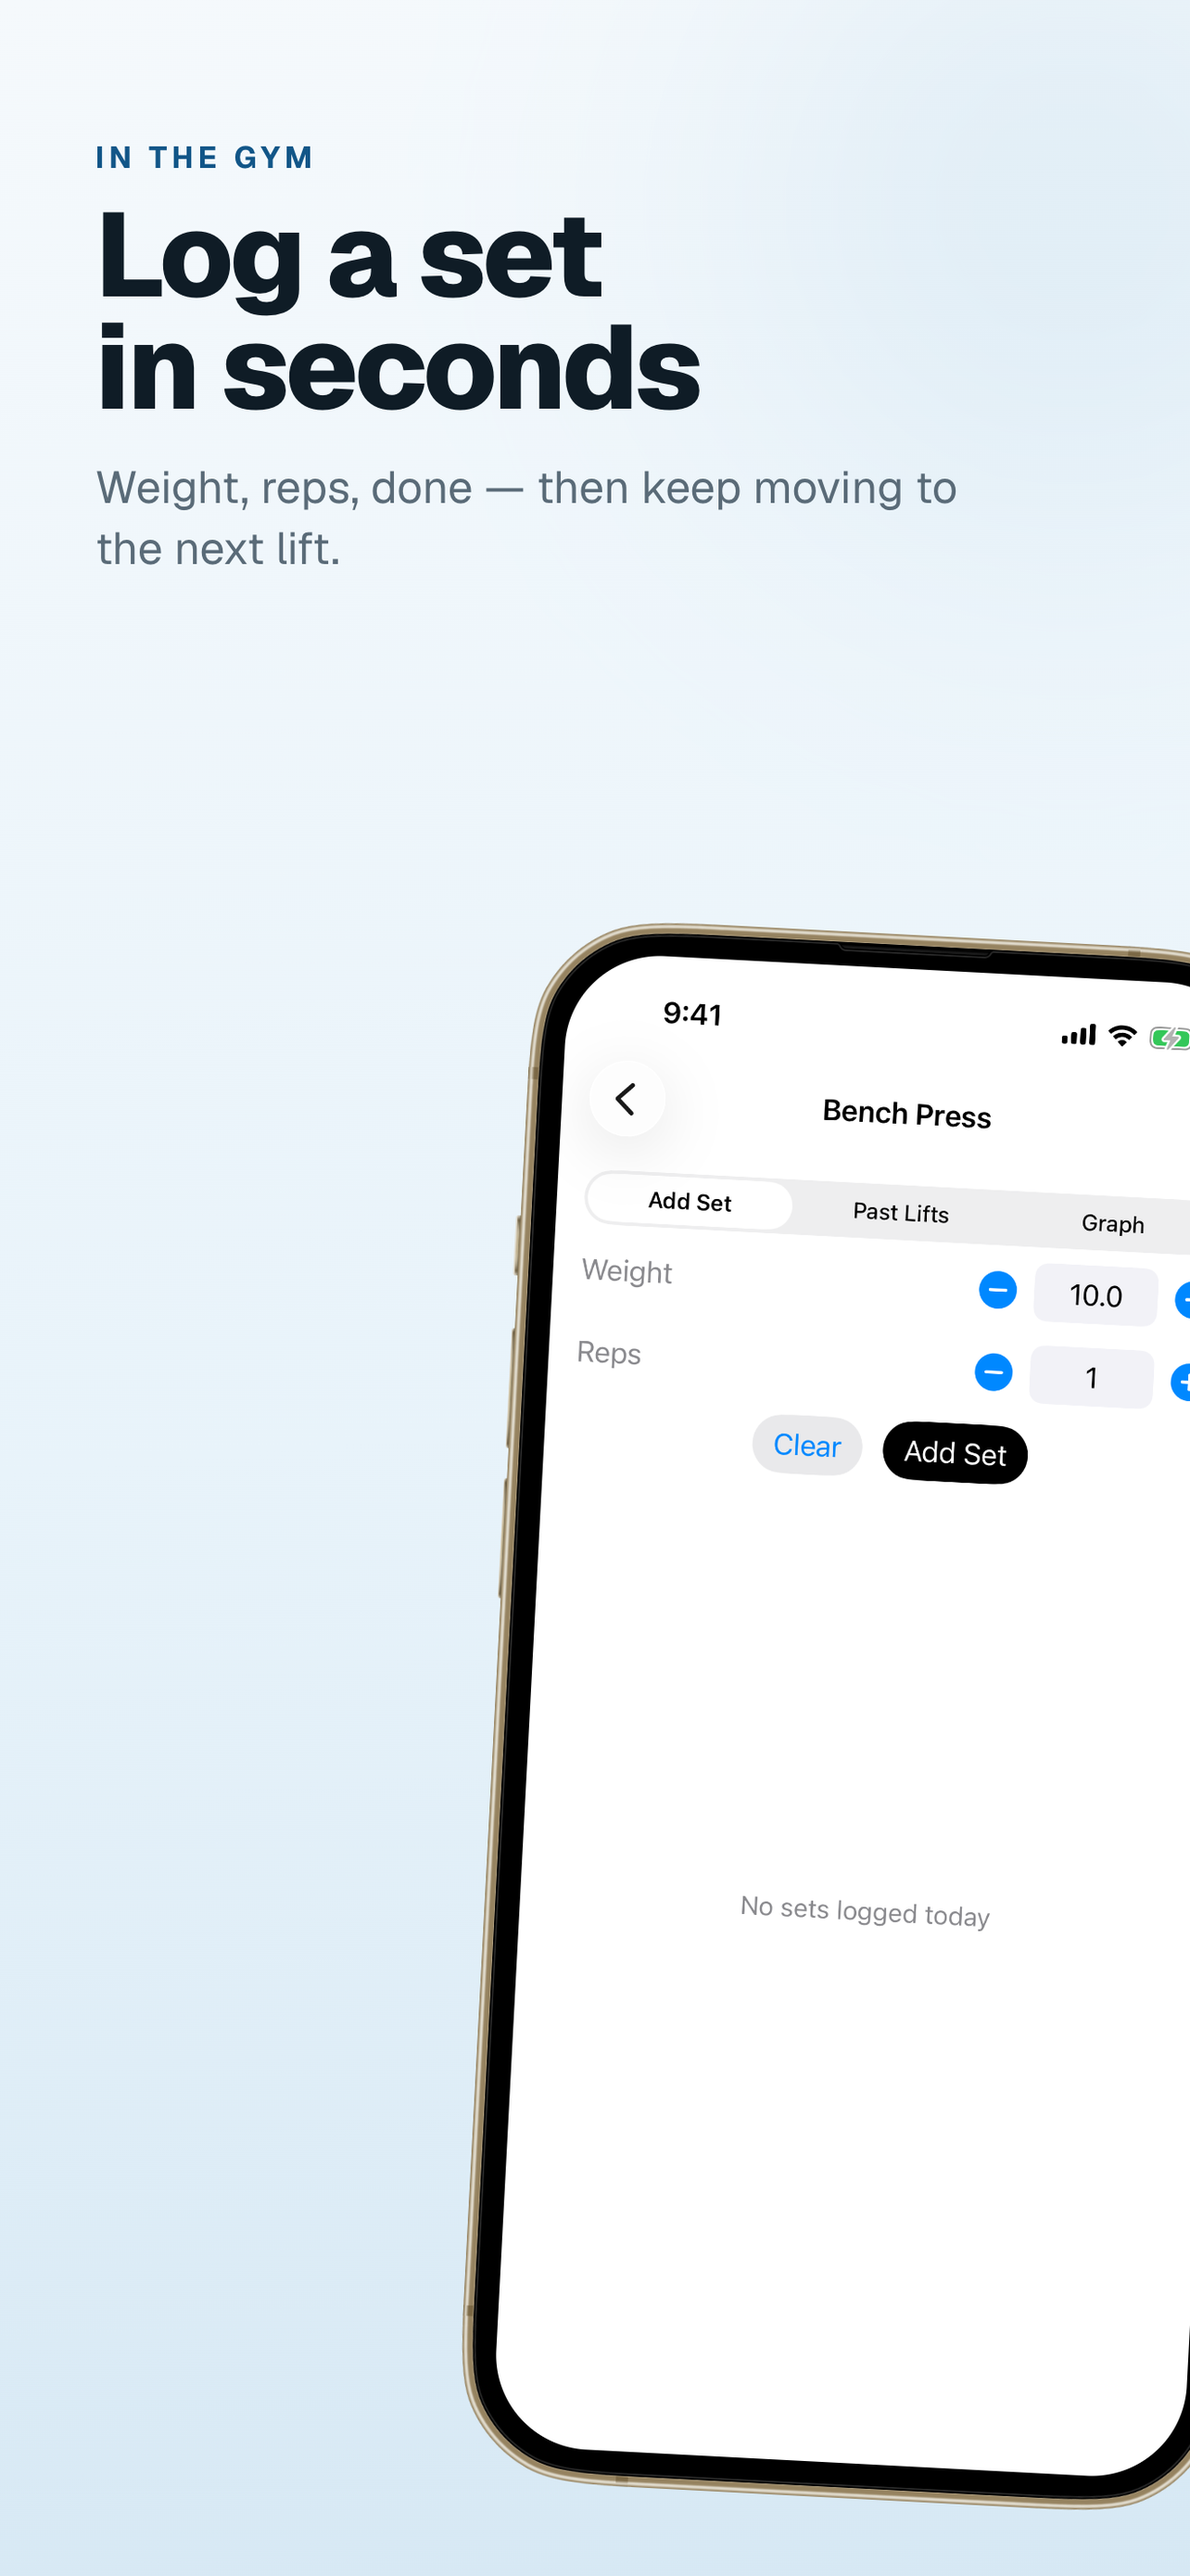
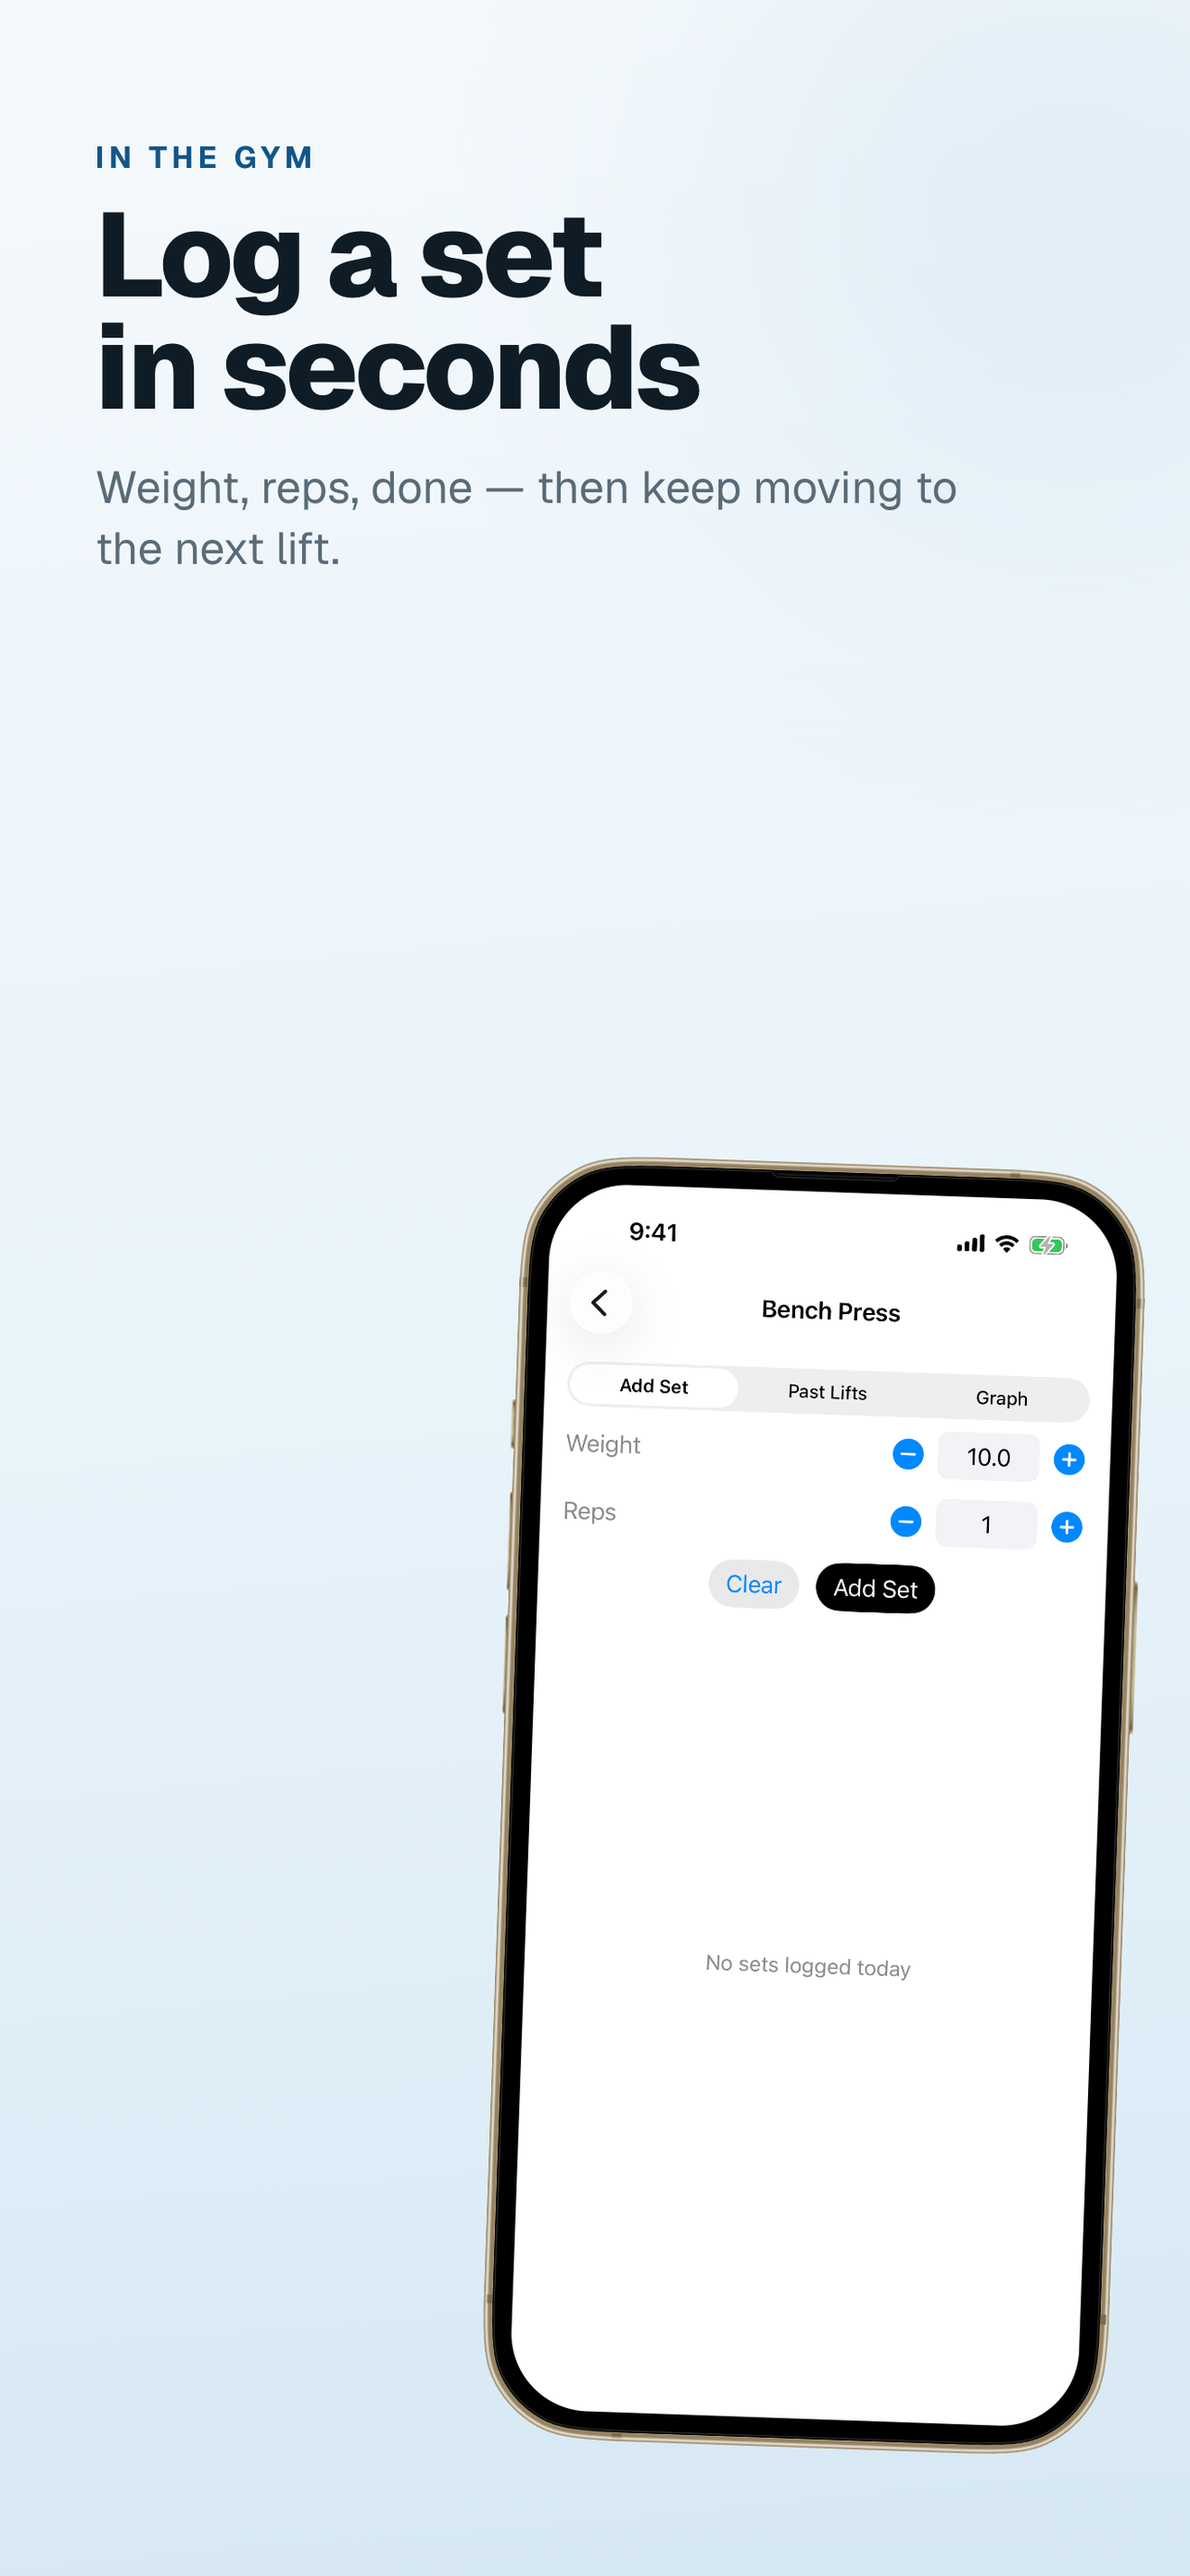
Fix screenshot clipping; keep universal creatives fully in frame

diff --git a/marketing/app-store-screenshots/src/app/page.tsx b/marketing/app-store-screenshots/src/app/page.tsx
@@ -230,9 +230,9 @@ const slides: SlideConfig[] = [
           style={{
             position: "absolute",
             left: "50%",
-            bottom: DESIGN_H * 0.02,
+            bottom: DESIGN_H * 0.04,
             transform: "translateX(-50%)",
-            width: PHONE_W,
+            width: PHONE_W * 0.88,
             zIndex: 3,
           }}
         >
@@ -261,11 +261,11 @@ const slides: SlideConfig[] = [
         <div
           style={{
             position: "absolute",
-            right: -DESIGN_W * 0.06,
-            bottom: DESIGN_H * 0.03,
-            width: PHONE_W * 0.95,
+            right: DESIGN_W * 0.05,
+            bottom: DESIGN_H * 0.05,
+            width: PHONE_W * 0.78,
             zIndex: 3,
-            transform: "rotate(3deg)",
+            transform: "rotate(2deg)",
           }}
         >
           <Phone mockupSrc={img("/mockup.png")} src={img("/screenshots/add-set.png")} alt="Add set" />
@@ -295,9 +295,9 @@ const slides: SlideConfig[] = [
           style={{
             position: "absolute",
             left: "50%",
-            bottom: DESIGN_H * 0.02,
+            bottom: DESIGN_H * 0.04,
             transform: "translateX(-50%)",
-            width: PHONE_W,
+            width: PHONE_W * 0.88,
             zIndex: 3,
           }}
         >
@@ -326,11 +326,11 @@ const slides: SlideConfig[] = [
         <div
           style={{
             position: "absolute",
-            left: -DESIGN_W * 0.06,
-            bottom: DESIGN_H * 0.03,
-            width: PHONE_W * 0.95,
+            left: DESIGN_W * 0.05,
+            bottom: DESIGN_H * 0.05,
+            width: PHONE_W * 0.78,
             zIndex: 3,
-            transform: "rotate(-3deg)",
+            transform: "rotate(-2deg)",
           }}
         >
           <Phone mockupSrc={img("/mockup.png")} src={img("/screenshots/past-lifts.png")} alt="Past lifts" />
@@ -360,9 +360,9 @@ const slides: SlideConfig[] = [
           style={{
             position: "absolute",
             left: "50%",
-            bottom: DESIGN_H * 0.02,
+            bottom: DESIGN_H * 0.04,
             transform: "translateX(-50%)",
-            width: PHONE_W,
+            width: PHONE_W * 0.88,
             zIndex: 3,
           }}
         >
@@ -381,33 +381,43 @@ const slides: SlideConfig[] = [
     render: (img) => {
       const CW = CREATIVE_W;
       const CH = CREATIVE_H;
-      const PHONE_CW = 298;
+      // Keep phone fully inside frame (rotation + shadow need margin)
+      const PHONE_CW = 250;
+      const phoneH = PHONE_CW * (MK_H / MK_W);
       return (
         <Slide bg={`linear-gradient(130deg, ${LT.blueDeep} 0%, ${LT.blueDark} 45%, ${LT.blue} 100%)`} w={CW} h={CH}>
           <Blob x={CW * 0.88} y={CH * 0.25} size={560} color={LT.blueGlow} opacity={0.24} />
           <Blob x={CW * 0.65} y={CH * 0.85} size={320} color="#5BA8D4" opacity={0.14} />
 
-          <div style={{ position: "absolute", left: CW * 0.05, top: CH * 0.1, width: CW * 0.52, zIndex: 2 }}>
-            <div style={{ display: "flex", alignItems: "center", gap: CW * 0.018, marginBottom: CH * 0.07 }}>
+          <div
+            style={{
+              position: "absolute",
+              left: CW * 0.055,
+              top: CH * 0.12,
+              width: CW * 0.48,
+              zIndex: 2,
+            }}
+          >
+            <div style={{ display: "flex", alignItems: "center", gap: CW * 0.016, marginBottom: CH * 0.05 }}>
               <img
                 src={img("/app-icon.png")}
                 alt="Lift Tracker"
-                style={{ width: CH * 0.14, height: CH * 0.14, borderRadius: CH * 0.028 }}
+                style={{ width: CH * 0.12, height: CH * 0.12, borderRadius: CH * 0.024 }}
               />
-              <span style={{ fontSize: CH * 0.07, fontWeight: 700, color: "rgba(255,255,255,0.9)" }}>
+              <span style={{ fontSize: CH * 0.062, fontWeight: 700, color: "rgba(255,255,255,0.9)" }}>
                 Lift Tracker
               </span>
             </div>
 
             <h2
               style={{
-                fontSize: CH * 0.148,
+                fontSize: CH * 0.125,
                 fontWeight: 800,
-                lineHeight: 0.92,
+                lineHeight: 0.95,
                 color: "#FFFFFF",
                 letterSpacing: "-0.03em",
                 margin: 0,
-                marginBottom: CH * 0.055,
+                marginBottom: CH * 0.04,
               }}
             >
               Track every
@@ -417,11 +427,11 @@ const slides: SlideConfig[] = [
 
             <p
               style={{
-                fontSize: CH * 0.066,
-                lineHeight: 1.38,
+                fontSize: CH * 0.052,
+                lineHeight: 1.35,
                 color: "rgba(255,255,255,0.62)",
                 margin: 0,
-                maxWidth: "90%",
+                maxWidth: "95%",
               }}
             >
               Log sets, watch your max climb,
@@ -433,12 +443,12 @@ const slides: SlideConfig[] = [
           <div
             style={{
               position: "absolute",
-              right: CW * 0.025,
-              top: (CH - PHONE_CW * (MK_H / MK_W)) / 2 - CH * 0.02,
+              right: CW * 0.05,
+              top: (CH - phoneH) / 2,
               width: PHONE_CW,
               zIndex: 3,
-              transform: "rotate(2.5deg)",
-              filter: "drop-shadow(0 24px 48px rgba(0,0,0,0.55))",
+              transform: "rotate(2deg)",
+              filter: "drop-shadow(0 18px 36px rgba(0,0,0,0.5))",
             }}
           >
             <Phone mockupSrc={img("/mockup.png")} src={img("/screenshots/graph.png")} alt="Progress graph" />
